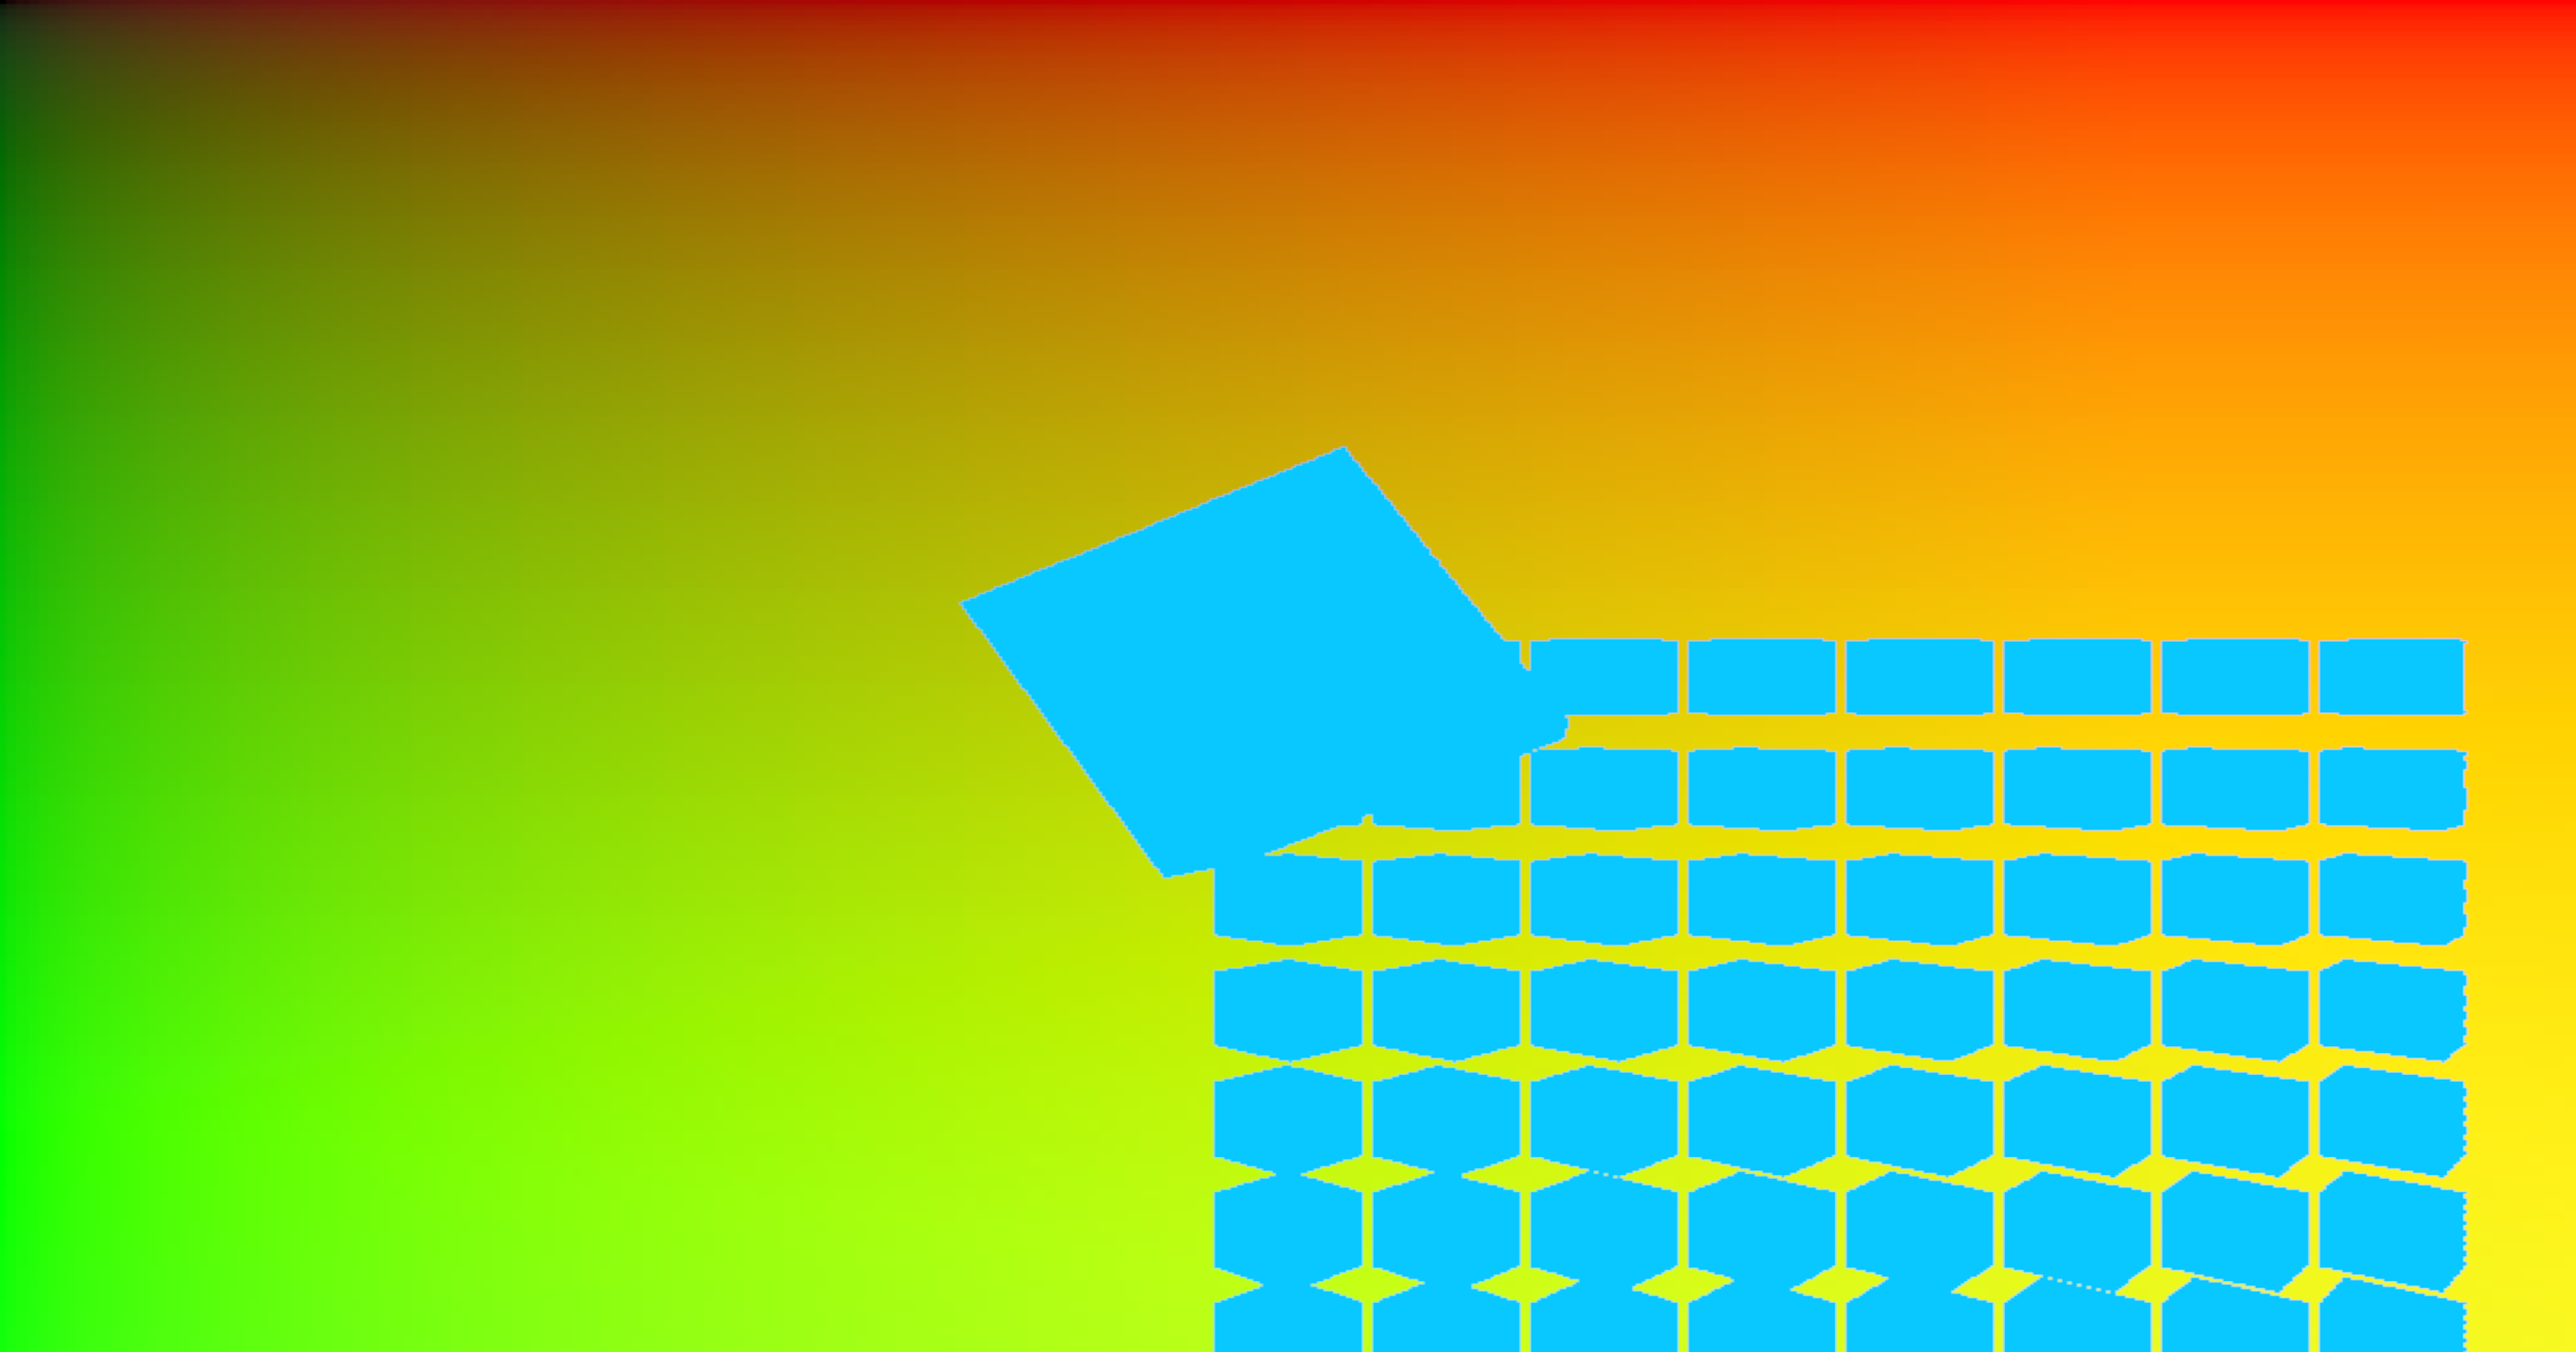
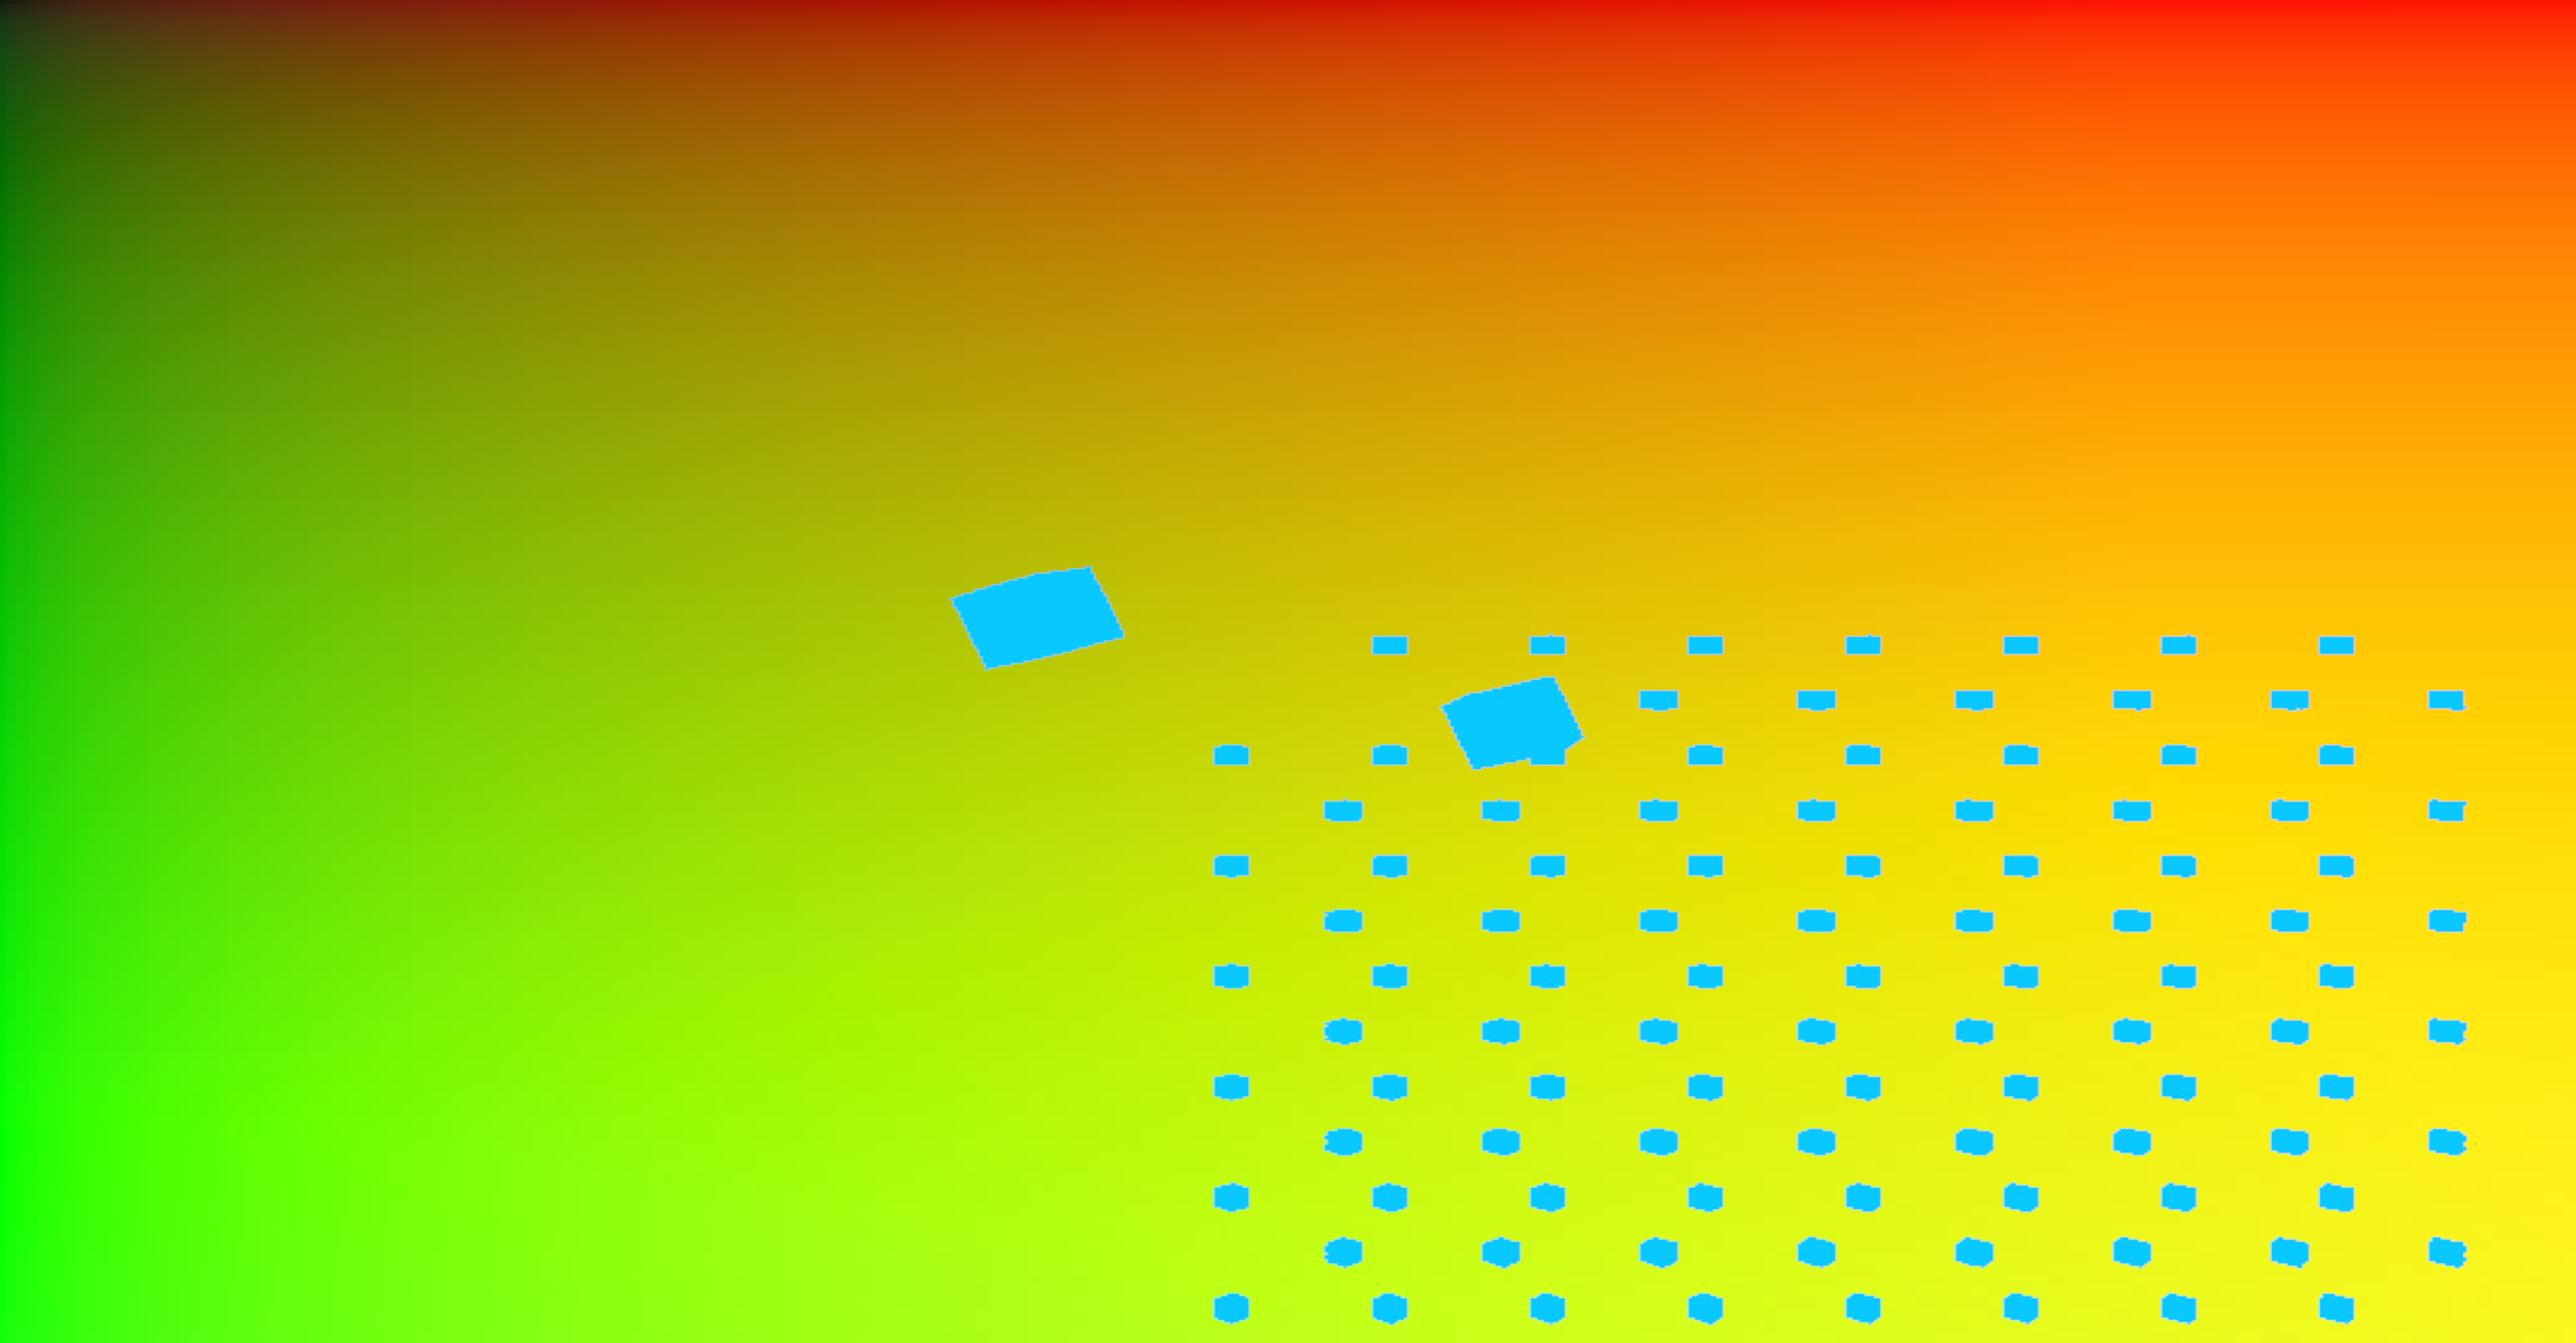
Many aabb primitives with different stride than 24

Changed region(s): [[0.375, 0.3097, 0.9688, 1.0]]

diff --git a/examples/src/ray_aabb_compute/mod.rs b/examples/src/ray_aabb_compute/mod.rs
@@ -13,19 +13,24 @@ use wgpu::{ray_tracing as rt, StoreOp};
 struct Aabb {
     _min: [f32; 3],
     _max: [f32; 3],
+    _padding: u32,
+    _padding2: u32,
 }
 
 fn aabb(min: [f32; 3], max: [f32; 3]) -> Aabb {
     Aabb {
         _min: min,
         _max: max,
+        _padding: 0,
+        _padding2: 0,
     }
 }
 
 fn create_aabbs() -> Vec<Aabb> {
     let aabb_data = [
         // top (0, 0, 1)
-        aabb([-1.0, -1.0, -1.0], [1.0, 1.0, 1.0]),
+        aabb([-1.0, -1.0, -1.0], [-0.5, -0.5, -0.5]),
+        aabb([0.5, 0.5, 0.5], [1.0, 1.0, 1.0]),
     ];
 
     aabb_data.to_vec()
@@ -314,6 +319,7 @@ impl crate::framework::Example for Example {
 
         let blas_geo_size_desc = rt::BlasProceduralGeometrySizeDescriptor {
             primitive_count: aabb_data.len() as u32,
+            stride: mem::size_of::<Aabb>() as u64,
             flags: rt::AccelerationStructureGeometryFlags::OPAQUE,
         };
 

diff --git a/wgpu-types/src/lib.rs b/wgpu-types/src/lib.rs
@@ -7326,6 +7326,8 @@ pub struct BlasTriangleGeometrySizeDescriptor {
 pub struct BlasProceduralGeometrySizeDescriptor {
     /// Number of primitives.
     pub primitive_count: u32,
+    /// Stride between two consecutive primitives.
+    pub stride: u64,
     /// Flags for the geometry.
     pub flags: AccelerationStructureGeometryFlags,
 }

diff --git a/wgpu-core/src/device/ray_tracing.rs b/wgpu-core/src/device/ray_tracing.rs
@@ -75,7 +75,7 @@ impl Device {
                     buffer: None,
                     offset: 0,
                     count: x.primitive_count,
-                    stride: 24, // TODO(jaisiero): fix this
+                    stride: x.stride,
                     flags: x.flags,
                 });
                 unsafe {

diff --git a/api_spec.rs b/api_spec.rs
@@ -24,6 +24,7 @@ pub struct BlasTriangleGeometrySizeDescriptor{
 
 pub struct BlasProceduralGeometrySizeDescriptor{
     pub count: u32,
+    pub stride: wgt::BufferAddress,
     pub flags: AccelerationStructureGeometryFlags,
 } 
 
